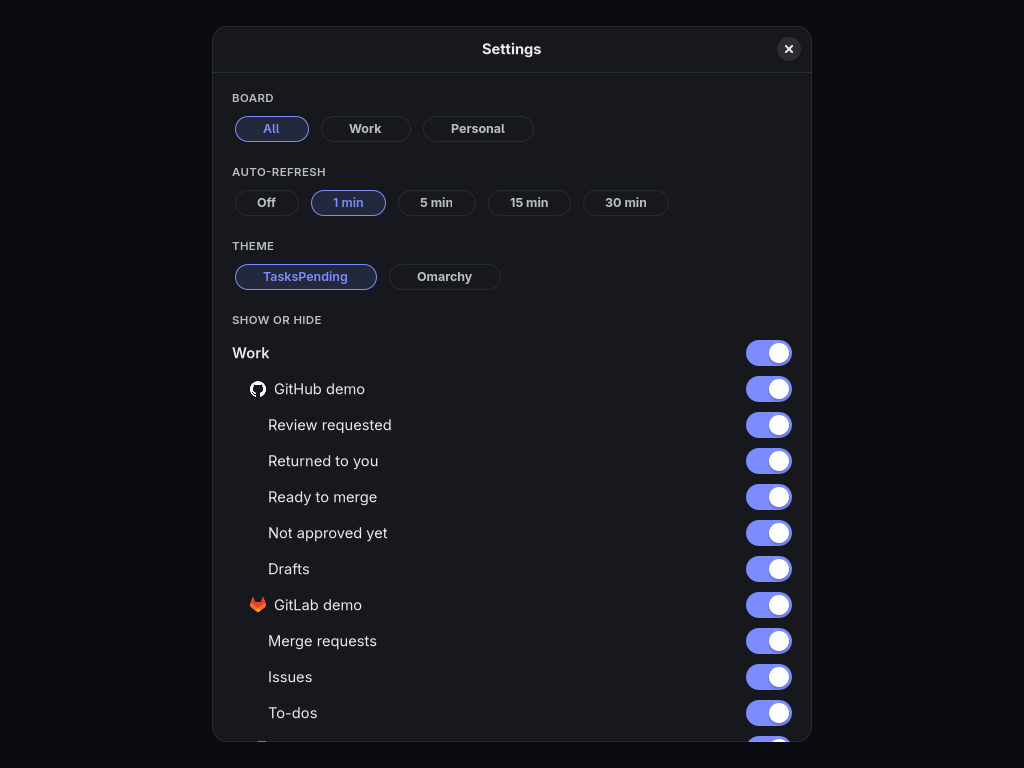
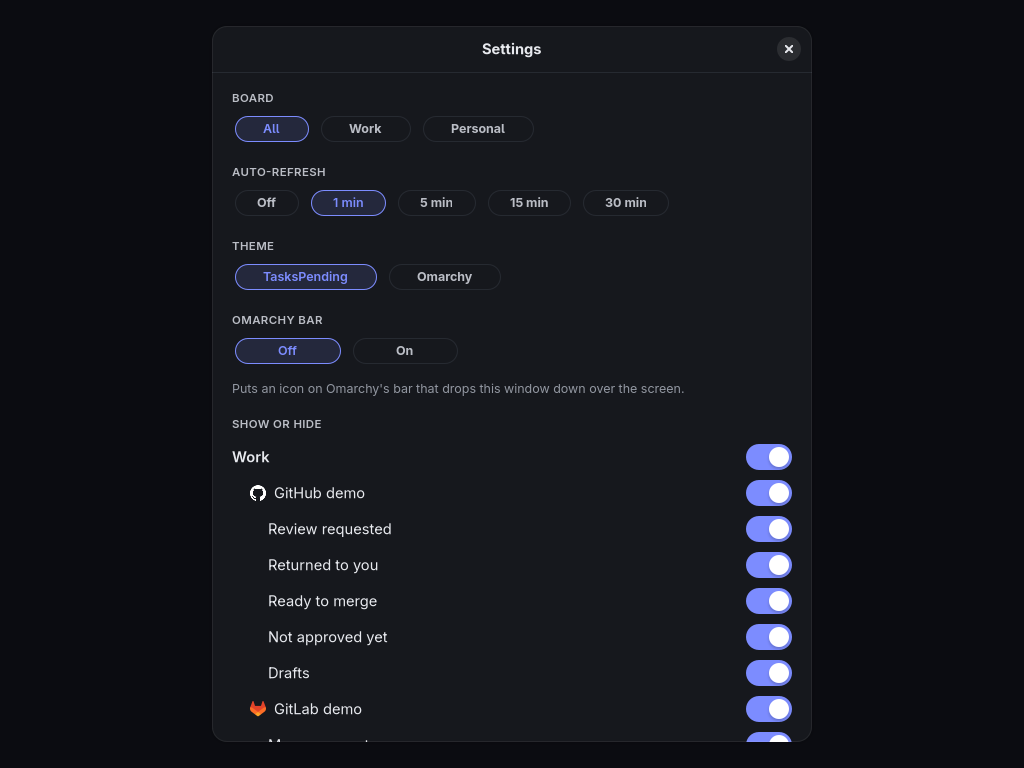
docs: the window as a bar drop-down
The README, operations, install, DESIGN.md, AGENTS.md and the
changelog describe the Omarchy bar switch, what a click does, that
closing a dropped-down window hides it, tasks-pending toggle with an
example key, what it needs and how to remove the plugin. Todos and
alerts are said to last while TasksPending runs. The Settings and
todo pictures are taken again.

diff --git a/docs/operations.md b/docs/operations.md
@@ -137,7 +137,15 @@ A big clock sits at the top: the date, then the local time as `HH:MM:SS` in bloc
 
 On Omarchy, a small weather widget sits on the other side of the clock: an icon for the current condition, the temperature, and below them the place and the wind, as `omarchy-weather-status` reports them (set the place with `omarchy-weather-location --set <name>`). It is optional context: it is not shown at all when weather is unavailable (another system, no network, the commands failing), and it leaves windows narrower than 1440 px, so it never takes room from the clock. The window asks the daemon for it on open, every 10 minutes while shown, and when it comes back from being suspended by the compositor.
 
-Under the clock are two tabs: **Activity**, which the window opens on and which counts its cards, and **Board**. On the Board the groups sit side by side in config order, each labelled with its board, wrapping onto more rows when the window is narrow. Inside a group, stacks sit one above another; clicking a stack's name collapses it to its name and count, and clicking again opens it. The gear opens **Settings**: an optional board filter (All, or one board), and a switch for every board, group and stack to show or hide it (hiding a board or group greys out the switches inside it, which keep their own setting). A group whose stacks are all hidden disappears. **Auto-refresh** makes the window ask the daemon to refresh every source every 1 (the default), 5, 15 or 30 minutes, or never; it pauses while the window is suspended, and a source already refreshing finishes before it starts again, so Plane still gets one request at a time. **Theme** picks the colours: **TasksPending**, the window's own (the default: dark, or light when the system asks), or **Omarchy**, which follows the theme Omarchy applied, read from `~/.local/state/omarchy/current/theme/colors.toml` (`~/.config/omarchy/current/theme` on Omarchy 3). It is dark or light as the theme says, and changes with it when you switch themes in Omarchy. When there is no theme to read, the window keeps its own colours and Settings says why. The sandbox starts with its own colours too; picking Omarchy in its Settings reads your theme like the real window does. The gear shows a dot while a filter or hidden item is in effect. These choices are remembered in `$XDG_STATE_HOME/tasks-pending/app-view.json` (`~/.local/state` when it is unset); the sandbox and `--screenshot` start from the defaults and save nothing there. Empty stacks are hidden: a button at the right of the group header tells how many there are and shows them, with the source's last fetch time. Stacks show their first five cards, with a button for the rest. Cards show the title (a link when the source has one, opened in the default browser) and at most two lines of the details the source writes, which include the due or event time (the full text is in the tooltip). Each group shows its source's `icon`, fetched by the window, falling back to a generic one.
+Under the clock are two tabs: **Activity**, which the window opens on and which counts its cards, and **Board**. On the Board the groups sit side by side in config order, each labelled with its board, wrapping onto more rows when the window is narrow. Inside a group, stacks sit one above another; clicking a stack's name collapses it to its name and count, and clicking again opens it. The gear opens **Settings**: an optional board filter (All, or one board), and a switch for every board, group and stack to show or hide it (hiding a board or group greys out the switches inside it, which keep their own setting). A group whose stacks are all hidden disappears. **Auto-refresh** makes the window ask the daemon to refresh every source every 1 (the default), 5, 15 or 30 minutes, or never; it pauses while the window is suspended, and a source already refreshing finishes before it starts again, so Plane still gets one request at a time. **Theme** picks the colours: **TasksPending**, the window's own (the default: dark, or light when the system asks), or **Omarchy**, which follows the theme Omarchy applied, read from `~/.local/state/omarchy/current/theme/colors.toml` (`~/.config/omarchy/current/theme` on Omarchy 3). It is dark or light as the theme says, and changes with it when you switch themes in Omarchy. When there is no theme to read, the window keeps its own colours and Settings says why. The sandbox starts with its own colours too; picking Omarchy in its Settings reads your theme like the real window does. The gear shows a dot while a filter or hidden item is in effect. On Omarchy, **Omarchy bar** puts TasksPending's icon on the bar (below). These choices are remembered in `$XDG_STATE_HOME/tasks-pending/app-view.json` (`~/.local/state` when it is unset); the sandbox and `--screenshot` start from the defaults and save nothing there. Empty stacks are hidden: a button at the right of the group header tells how many there are and shows them, with the source's last fetch time. Stacks show their first five cards, with a button for the rest. Cards show the title (a link when the source has one, opened in the default browser) and at most two lines of the details the source writes, which include the due or event time (the full text is in the tooltip). Each group shows its source's `icon`, fetched by the window, falling back to a generic one.
+
+On Omarchy, **Omarchy bar** in Settings (shown when `omarchy-shell` is on the `PATH`) puts TasksPending's icon on Omarchy's bar. **On** writes a small shell plugin into `~/.config/omarchy/plugins/io.github.brunoomariano.tasks-pending/` and enables it, and the icon lands on the right of the bar (`omarchy bar move` places it like any widget); **Off** disables it and keeps the folder. Settings reads `~/.config/omarchy/shell.json` to tell which it is, and says so when Omarchy refuses. A click on the icon runs `tasks-pending toggle`: the window drops down over the workspace you are on, floating, centred, at 80% of the screen, on the page it was on, and the next click sends it away. When TasksPending is not running, the click starts it already dropped down; opened from the launcher, the window is tiled as usual, and the first click takes it and drops it down. While it is dropped down, closing the window only hides it, so its todos and alerts are kept; **Ctrl+Q** quits. `tasks-pending toggle` does the same from a key, for instance in `~/.config/hypr/bindings.lua`:
+
+```lua
+o.bind("SUPER + SHIFT + T", "TasksPending drop-down", "tasks-pending toggle")
+```
+
+The drop-down is Hyprland's special workspace `special:tasks-pending`, driven over Hyprland's socket. It needs Omarchy's own shell (Omarchy 4) and Hyprland's Lua config (0.55 or newer); without Hyprland, `tasks-pending toggle` opens the window, or raises it when it is open. A newer TasksPending rewrites the plugin when it starts, so the two keep the same version. The plugin's `command` setting (`tasks-pending` by default) names the program a click runs, for an install outside the `PATH`. `omarchy plugin remove io.github.brunoomariano.tasks-pending` takes the plugin away entirely. The sandbox and `--screenshot` never read or write Omarchy's settings: their switch shows Off and stays so.
 
 Source health is behind the **Sources** button, which opens a dialog with each source's board, status, last fetch and failure reason, plus a config error when the saved config was not reloaded. The button shows a warning icon when any source is degraded or failed, or the config has an error.
 
@@ -145,9 +153,9 @@ Every card has a three-dot button (shown when the pointer is on the card; the ke
 
 On the Board, the menu's **Snooze** entry offers **1 hour**, **Tomorrow** (the next day at 8:00, local time), **Next week** (the next Monday at 8:00; on a Monday, the following one) and **Until it changes**. Whatever the choice, a snoozed card comes back early when its item changes (its last update moves), so snoozing never hides news. Nothing is written to the provider. While cards are snoozed, the quiet `N snoozed` link after the update time opens the list, where **Wake** brings a card back now. Snoozes are kept by the daemon in `$XDG_STATE_HOME/tasks-pending/snoozes.json` and forgotten when the card is finished elsewhere, like marks. A snoozed card keeps its mark, and its stage, and is back on Activity when it wakes.
 
-**Alert me about**, in the same menu, rings a desktop notification about the card **in 15 min**, **30 min**, **1 hour** or **3 hours**. Until then the card says `Alert at HH:MM`, **Cancel the alert** calls it off, and choosing another time replaces it. The window looks at its alerts every 30 seconds by the wall clock, so one the machine slept through rings on waking. The notification carries the card's title, then its source and the time the alert was set for; it is sent through the application id (`io.github.brunoomariano.TasksPending`) to the desktop's notification daemon, and clicking it brings the window up. Alerts last as long as the window: they are written nowhere, and closing the window forgets them.
+**Alert me about**, in the same menu, rings a desktop notification about the card **in 15 min**, **30 min**, **1 hour** or **3 hours**. Until then the card says `Alert at HH:MM`, **Cancel the alert** calls it off, and choosing another time replaces it. The window looks at its alerts every 30 seconds by the wall clock, so one the machine slept through rings on waking. The notification carries the card's title, then its source and the time the alert was set for; it is sent through the application id (`io.github.brunoomariano.TasksPending`) to the desktop's notification daemon, and clicking it brings the window up. Alerts last as long as TasksPending runs: they are written nowhere, and quitting it forgets them.
 
-Todos, for things that come from no source, live in the Activity, not on the Board. **New** at the end of the Picked column's header opens a dialog for a title and optional details, and the todo lands in Picked, after the marked cards, with `Todo` where a card names its source. Its menu moves it between the stages and sets an alert like any card's, and has **Edit** and **Delete** where a card has Send to or Remove from Activity and Snooze: a todo has nowhere else to be, so Delete is how it goes. Todos are not saved anywhere, which the dialog says: closing the window forgets them.
+Todos, for things that come from no source, live in the Activity, not on the Board. **New** at the end of the Picked column's header opens a dialog for a title and optional details, and the todo lands in Picked, after the marked cards, with `Todo` where a card names its source. Its menu moves it between the stages and sets an alert like any card's, and has **Edit** and **Delete** where a card has Send to or Remove from Activity and Snooze: a todo has nowhere else to be, so Delete is how it goes. Todos are not saved anywhere, which the dialog says: quitting TasksPending forgets them.
 
 A small dot before a card's title means the item changed since you last looked, and the same dot after a stack's count means the stack holds such a card (also when it is collapsed or the card is behind "Show more"). There is no count and no label. "Looking" is doing something in the window: a click, a key, scrolling. Opening the window counts; the pointer merely crossing it, or the window taking focus under it, does not, so the dots are not cleared by accident. When you come back after 10 minutes or more without activity, the dots show what changed since your previous activity; cards that change while you keep using the window get a dot too, and all of them clear the next time you return. A change counts from the moment the dashboard fetched it: an item that changed just before you left, but that its source only refreshed after, is flagged on your return, because it was never on screen. The daemon keeps these times in `$XDG_STATE_HOME/tasks-pending/looks.json`. Activity is reported at most once a minute.
 

diff --git a/CHANGELOG.md b/CHANGELOG.md
@@ -5,11 +5,13 @@
 ### Features
 
 - **Theme** in Settings: **TasksPending**, the window's own colours and still the default, or **Omarchy**, which follows the theme Omarchy applied (dark or light as the theme says) and changes with it when you switch themes. The colours Omarchy's `colors.toml` does not name are mixed from its background, text and accent in the same proportions as the window's own palette. Text on the accent is white or dark, whichever stands out more on it. A theme colour that would be hard to read is lightened (darkened on a light theme) to 4.5:1 on what it is written on, keeping its hue, and a state the theme draws in grey is drawn in its text colour. The choice is kept in `app-view.json`.
+- **Omarchy bar** in Settings puts TasksPending's icon on Omarchy's bar, as a shell plugin the app writes and enables. A click drops the window down over the workspace you are on (floating, centred, 80% of the screen) on the page it was on, and the next sends it away; when TasksPending is not running, the click starts it dropped down. While dropped down, closing the window only hides it, keeping todos and alerts. `tasks-pending toggle` does the same from a key. It needs Omarchy's shell and Hyprland 0.55 or newer.
+- **Ctrl+Q** quits the window.
 
 ### Changed
 
 - The Activity stage Doing is now **In Progress**. Cards moved there in 0.7.0 stay there.
-- Todos live in the **Activity**: **New** at the end of the Picked column writes one down there, and its menu moves it along the stages. The Todo group is gone from the Board, and a todo's menu no longer has Send to or Remove from Activity; Delete is how it goes.
+- Todos live in the **Activity**: **New** at the end of the Picked column writes one down there, and its menu moves it along the stages. The Todo group is gone from the Board, and a todo's menu no longer has Send to or Remove from Activity; Delete is how it goes. Todos and alerts last as long as TasksPending runs, which the dialog now says.
 - The Refresh button keeps one width whatever it says, so nothing beside it moves while it refreshes or waits; a refused refresh now reads "Wait 7s".
 - The window's own palette reads at 4.5:1 too, as the Omarchy one does: on dark, Text 3 and Text 2 are lighter and the primary button's text is dark on the accent; on light, the texts, OK, Warning, Danger and the accent as text are deeper. The count on the open tab is made to read on its tint, in every palette.
 

diff --git a/README.md b/README.md
@@ -16,14 +16,15 @@ Every picture here comes from `tasks-pending sandbox`, which shows simulated car
 - **One menu per card.** Every action sits behind a three-dot button on the card: send to Activity, move between stages, snooze, alert, and for a todo edit and delete.
 - **Snooze.** Hide a card for an hour, until tomorrow, until next week, or until it changes. It always comes back when the item changes, and nothing is written to the provider.
 - **Alerts.** Ask to be alerted about a card in 15 minutes, 30 minutes, an hour or three hours: when the time comes, a desktop notification names it, and clicking it brings the window up.
-- **Todos.** Write down something that comes from no source: **New** in the Picked column of the Activity puts it there, it moves through the stages like the other cards, and it lasts only while the window is open.
+- **Todos.** Write down something that comes from no source: **New** in the Picked column of the Activity puts it there, it moves through the stages like the other cards, and it lasts only while TasksPending runs.
 - **What changed.** A small dot marks the cards that changed since you last looked.
 - **Omarchy's theme.** The window has its own palette, dark unless the system asks for light. On Omarchy, Settings can switch it to the theme Omarchy applied, and it changes with it.
+- **On Omarchy's bar.** Settings can put an icon on Omarchy's bar: a click drops the window down over whatever you are doing, on the page it was on, and the next click sends it away. `tasks-pending toggle` does the same from a key.
 - **Local only.** The daemon listens on this machine, reads tokens from the environment, and keeps your marks and snoozes in a state folder. The window reads it over loopback; it reaches the network itself only for the sources' logos, and for the providers when no daemon is running and it runs the sources in its own process.
 
 <p align="center">
   <img src="docs/assets/tasks-pending-board.png" alt="The Board tab: one group of stacks per source, with the picked cards highlighted" width="49%">
-  <img src="docs/assets/tasks-pending-todo.png" alt="The New todo dialog: a title, optional details, and the note that todos are kept only while the window is open" width="49%">
+  <img src="docs/assets/tasks-pending-todo.png" alt="The New todo dialog: a title, optional details, and the note that todos are kept only while TasksPending runs" width="49%">
 </p>
 
 <p align="center">

diff --git a/AGENTS.md b/AGENTS.md
@@ -49,6 +49,8 @@ GTK4 and libadwaita, through `gtk4-rs` and `libadwaita-rs` without a component f
 
 Visual style: simple and quiet, described in `crates/pending-app/DESIGN.md` (read it before changing how the window looks). Colours come from the app's own palette in `crates/pending-app/src/theme.rs` (dark by default, light when the system asks), filled into `crates/pending-app/src/style.css`; Settings can switch to Omarchy's theme, read from its `colors.toml`, mixed in the same proportions (`theme::parse_omarchy`). Everything written as text, in any of the palettes, reads at 4.5:1 on its grounds (`Mixed::readable`, and the tests hold the own palettes to it). Never GTK theme colours. A new colour is a token in both: the `Palette`, its value in `DARK` and `LIGHT`, and its mix from an Omarchy theme. Icons are the system's symbolic icons (names present in Adwaita and Yaru); source logos are fetched from their configured URL. Cards carry no severity colour or label. Thin 1px borders over shadows, one accent, 6/12/18 px rhythm.
 
+Omarchy's bar: `crates/pending-app/src/omarchy_bar.rs` carries the shell plugin in `src/omarchy-bar/` (its manifest takes the crate's version) and writes it under `~/.config/omarchy/plugins/` when Settings turns it on (and at startup over a copy already there, so it follows upgrades); `dropdown.rs` decides each `tasks-pending toggle` and each close from what Hyprland reports over its socket (a window in `special:tasks-pending` is dropped down) and drives it with Lua dispatches, which it tests against a stand-in socket. A change to the plugin is checked by `omarchy-plugin-validate` in the tests where Omarchy is installed. The sandbox and `--screenshot` never touch Omarchy's or Hyprland's config.
+
 The app's tests need no display (CI has none): what they check lives outside the widgets, in `present`, `state`, `view` and `backend`, against a stand-in daemon on a loopback port. Widget lifetimes (closures that capture a widget hold it alive: capture it weakly when the widget owns the closure) and keyboard focus (never `can_focus(false)` on a container, which shuts its children out) are checked by hand on a display.
 
 ## Changes That Travel Together

diff --git a/crates/pending-app/DESIGN.md b/crates/pending-app/DESIGN.md
@@ -144,7 +144,7 @@ Soft corners: 12px for groups and stage columns, dialog rows at 8px, cards at 10
 - Controls: 34px buttons with a 1px border on the group surface; Refresh is the one filled with accent, and as wide as its longest label ("Refreshing…") whatever it says, its icon and label centred, so nothing beside it moves; the gear carries a 7px accent dot while a filter is on.
 - Notices: a bordered box tinted 8% with the state colour (warning for stale data, danger for no data).
 - Status chip (Sources dialog): the state colour as text on a 10% tint with a 25% ring, pill shaped.
-- Dialogs: group surface, a flat header bar, 20px side padding, rows as bordered boxes; filters as pills that fill with the accent tint when active (Settings: Board, Auto-refresh, Theme, then the show or hide switches; under the themes, while following Omarchy, one line in Text 3 names the theme or says why there is none); switches in libadwaita's own style with the accent.
+- Dialogs: group surface, a flat header bar, 20px side padding, rows as bordered boxes; filters as pills that fill with the accent tint when active (Settings: Board, Auto-refresh, Theme, Omarchy bar on Omarchy, then the show or hide switches; under the themes, while following Omarchy, one line in Text 3 names the theme or says why there is none; under Omarchy bar, one line in Text 3 says what the icon does, what is under way or what Omarchy answered); switches in libadwaita's own style with the accent.
 - Empty state: a dashed 1px border, 8px radius, a check icon and "Nothing pending." in Text 3.
 
 ## Motion

diff --git a/docs/install.md b/docs/install.md
@@ -135,7 +135,7 @@ The window run without a daemon (`tasks-pending app --no-daemon`, or when none a
 
 Open **TasksPending** from the app launcher, or run `tasks-pending`. It looks for the daemon at `http://127.0.0.1:61000` (`--daemon <url>` for another port) and, when none answers, starts the sources itself on a loopback port of its own and says so under the controls. `--no-daemon` skips the daemon on purpose. What the window shows and how it behaves is in [operations.md](operations.md).
 
-**Omarchy**: the desktop entry makes the window a launcher app like any other, tiled by Hyprland. For a key that opens it or focuses it when it is already open, add to `~/.config/hypr/bindings.lua`:
+**Omarchy**: the desktop entry makes the window a launcher app like any other, tiled by Hyprland. Settings can also put an icon on Omarchy's bar that drops the window down over the screen and sends it away again, which `tasks-pending toggle` does from a key ([operations.md](operations.md#the-window)). For a key that opens the tiled window or focuses it when it is already open, add to `~/.config/hypr/bindings.lua`:
 
 ```lua
 o.bind("SUPER + ALT + T", "TasksPending", "omarchy-launch-or-focus TasksPending 'uwsm-app -- tasks-pending'")
